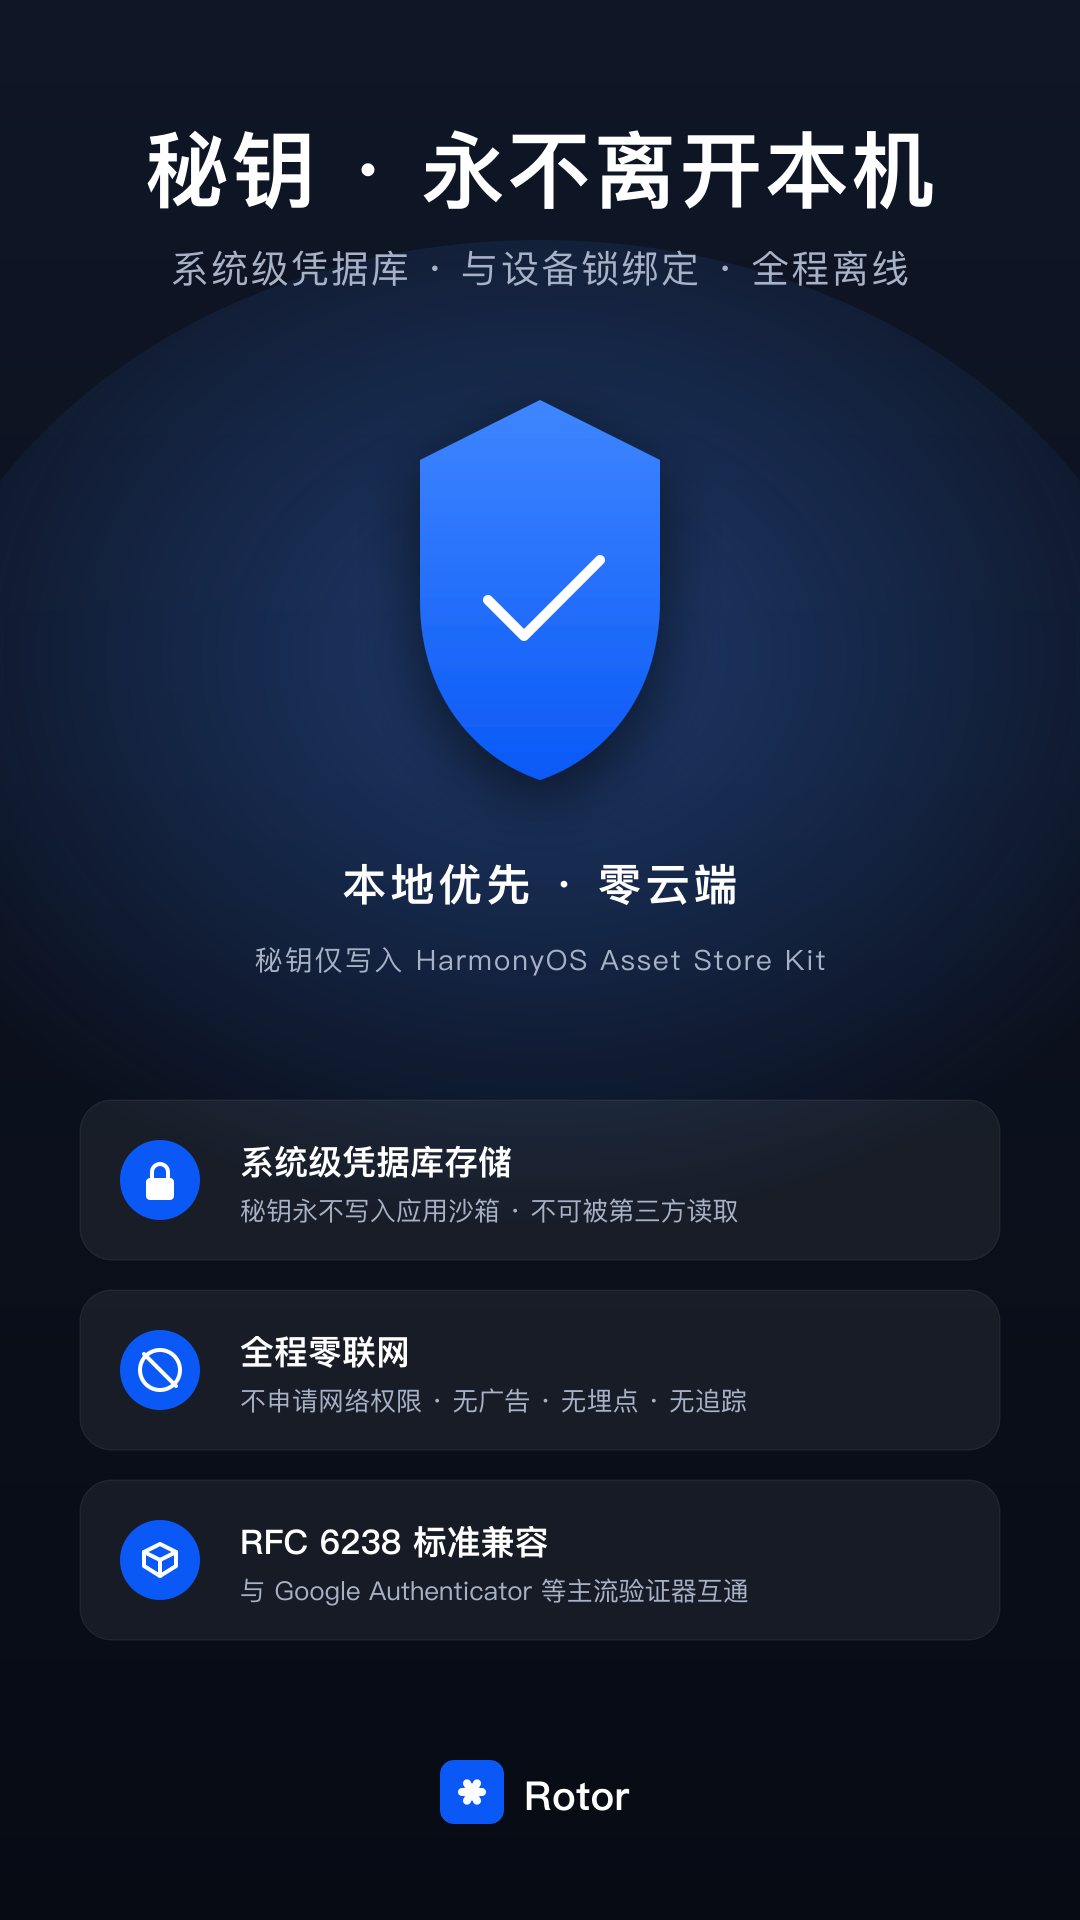
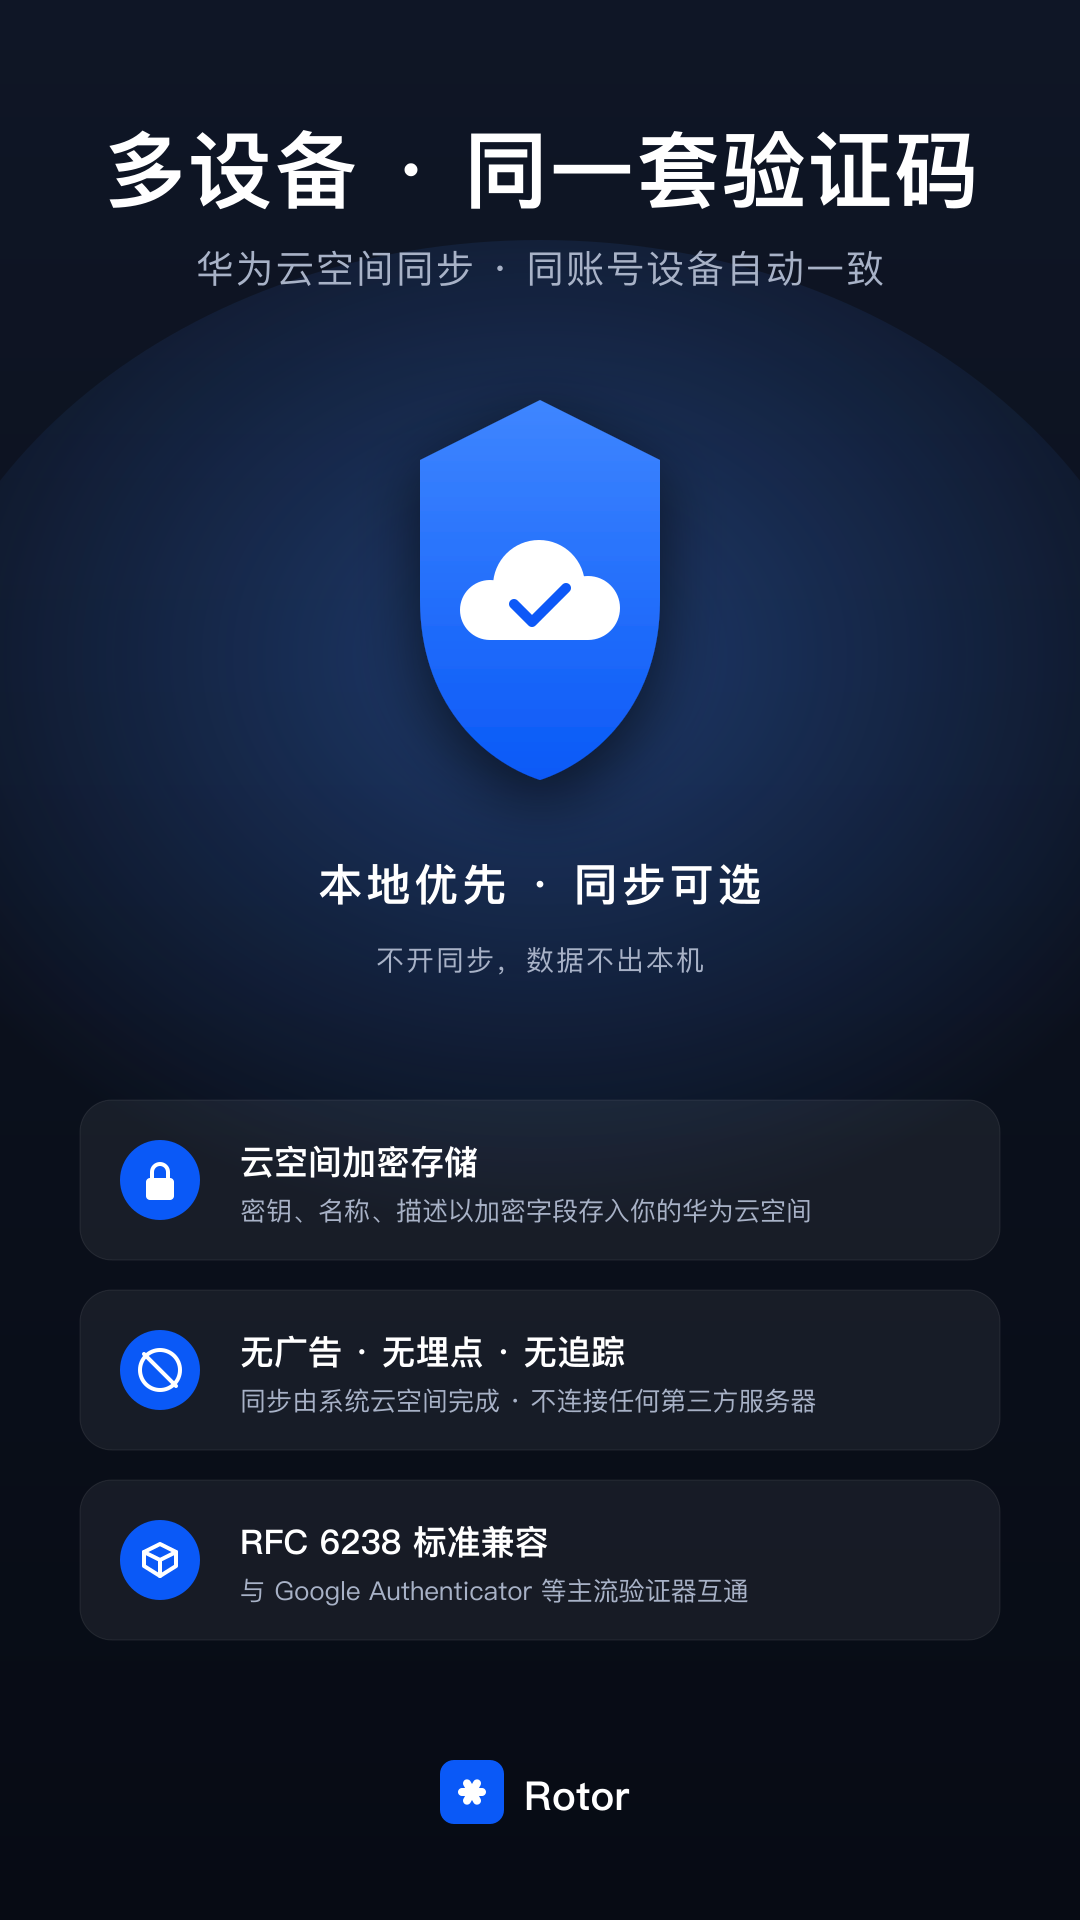
docs: 关于页、README、AGENTS.md 与宣传图按云同步现状更新

diff --git a/docs/superpowers/specs/2026-09-24-cloud-sync-design.md b/docs/superpowers/specs/2026-09-24-cloud-sync-design.md
@@ -77,7 +77,7 @@ const CONFIG: relationalStore.StoreConfig = {
 };
 ```
 
-- `securityLevel` 从 S2 提到 S3。官方规定安全等级只能升不能降；S3 允许端云同步，S4 不允许。
+- `securityLevel` 从 S2 提到 S3。官方规定安全等级只能升不能降；S3 允许端云同步，S4 不允许。现网 S2 库直接以 S3 配置开库即完成升级，不报 14800017。
 - `encrypt` 不设置，保持非加密库（D4）。
 - `autoCleanDirtyData` 不设置，保持默认 true：云端删除的行同步到本机时自动删除。
 
@@ -124,6 +124,8 @@ const CONFIG: relationalStore.StoreConfig = {
 
 `entry/src/main/module.json5` 的 `requestPermissions` 增加 `ohos.permission.GET_NETWORK_INFO`（系统自动授予的普通权限，只需 `name`，供 5.6 网络监听使用）。
 
+`setDistributedTables` 的接口注解标有 `ohos.permission.DISTRIBUTED_DATASYNC`，编译时会出权限提示；端云类型（`DISTRIBUTED_CLOUD`）在 API 12 起运行时不需要该权限，不声明。
+
 ### 5.2 AGC 云侧配置
 
 一次性手工操作，开发环境与生产环境各做一次（先开发环境调通，再「实施变更到生产环境」，实施后字段只能加不能改删）：
@@ -159,9 +161,12 @@ export enum CloudSyncState { OFF, SYNCING, SYNCED, DISCONNECTED }
 
 export interface CloudSyncStatus {
   state: CloudSyncState;
-  code: number;        // 最近一次同步结束时的 ProgressCode，未同步过或调用抛异常为 -1
+  code: number;        // 最近一次同步结束时的 ProgressCode；本进程尚未完成首次同步为 CODE_PENDING（-2），调用抛异常或超时为 CODE_FAILED（-1）
+  online: boolean;     // 默认网络是否可用
   lastSyncAt: number;  // 最近一次成功同步的时间戳，0 表示从未成功
 }
+
+export function syncStateSymbol(state: CloudSyncState): Resource;   // 状态对应的 sys.symbol 图标
 
 class CloudSyncService {
   init(ctx): Promise<void>;                      // 冷启动调用
@@ -172,12 +177,14 @@ class CloudSyncService {
   status(): CloudSyncStatus;
   onStatusChange(cb: (s: CloudSyncStatus) => void): () => void;   // 返回取消函数
   onCloudDataChange(cb: () => void): () => void;                  // 返回取消函数
+  guideShown(ctx): Promise<boolean>;             // 首次开启引导弹窗是否已出现过
+  markGuideShown(ctx): Promise<void>;
   release(): void;                               // 进程退出时调用：取消订阅、注销网络监听
 }
 ```
 
-- `init`：读 preferences；开关为开时，调 `setDistributedTables(['otp_account'], DISTRIBUTED_CLOUD, { autoSync: true })`（幂等，保证配置存在）、注册云端变更订阅、启动网络监听、调一次 `syncNow(ctx, false)`。开关为关时只读状态，不做其他事。
-- `enable`：调 `setDistributedTables(['otp_account'], DISTRIBUTED_CLOUD, { autoSync: true })`，成功后记开关为开，注册云端变更订阅，启动网络监听，调 `syncNow(ctx, true)`。`setDistributedTables` 失败则保持关闭状态并向调用方抛出，页面据此提示「开启失败」。首次 `setDistributedTables` 后系统自动把本地已有行全部上传；手动同步用时间优先模式合并云端已有数据（另一台设备先开启的情况）。
+- `init`：读 preferences；开关为开时，调 `setDistributedTables(['otp_account'], DISTRIBUTED_CLOUD, { autoSync: true })`（幂等，保证配置存在）、注册云端变更订阅、启动网络监听、调一次 `syncNow(ctx, false)`。开关为关且 preferences 里明确记过关闭时，重新下发一次 `{ autoSync: false, enableCloud: false }`，保证关闭状态在系统侧生效；从未开启过则不做其他事。
+- `enable`：调 `setDistributedTables(['otp_account'], DISTRIBUTED_CLOUD, { autoSync: true, enableCloud: true })`，成功后记开关为开，注册云端变更订阅，启动网络监听，调 `syncNow(ctx, true)`。`setDistributedTables` 失败则保持关闭状态并向调用方抛出，页面据此提示「开启失败」。首次 `setDistributedTables` 后系统自动把本地已有行全部上传；手动同步用时间优先模式合并云端已有数据（另一台设备先开启的情况）。
 - `disable`：调 `setDistributedTables(['otp_account'], DISTRIBUTED_CLOUD, { autoSync: false, enableCloud: false })`，记开关为关，取消云端变更订阅，停止网络监听，状态置 `OFF`。调用失败则保持开启状态并向调用方抛出，页面据此提示「关闭失败」。本地数据不动，云端数据保留；删除云端数据由用户在系统云空间的「停止同步并删除云端数据」完成。
 - `syncNow`：`store.cloudSync(SyncMode.SYNC_MODE_TIME_FIRST, ['otp_account'], progress)`（Promise 版）。`manual` 为 false 且距上次实际执行不足 30 秒直接返回，避免被云端限流，防抖计时只保存在内存里，进程启动后的第一次调用总会执行；`manual` 为 true 不受防抖限制，但同步进行中再次调用直接返回。进度回调里 `schedule` 为 `SYNC_FINISH` 时取 `code`，`SUCCESS` 则更新 `lastSyncAt` 并写入 preferences。
 - 所有 relationalStore 与 preferences 调用都包 try/catch，异常记 `console.error` 并把状态置为 `DISCONNECTED`、`code = -1`。
@@ -188,7 +195,7 @@ class CloudSyncService {
 | 状态 | 条件 |
 | --- | --- |
 | `OFF` | 开关为关 |
-| `SYNCING` | 有一次 `cloudSync` 调用在进行中 |
+| `SYNCING` | 有一次 `cloudSync` 调用在进行中，或本进程尚未完成首次同步且网络可用（冷启动与刚开启时总会立即同步一次） |
 | `SYNCED` | 网络可用，且最近一次 `cloudSync` 结束码为 `SUCCESS` |
 | `DISCONNECTED` | 开关为开且不满足上面两条：网络不可用，或最近一次结束码不是 `SUCCESS`，或调用抛异常 |
 
@@ -346,6 +353,7 @@ class CloudSyncService {
 | 位置 | 新文案 |
 | --- | --- |
 | 大标题 | 多设备 · 同一套验证码 |
+| 盾牌内图形 | 白色云朵加蓝色对勾 |
 | 副标题 | 华为云空间同步 · 同账号设备自动一致 |
 | 中部标题 | 本地优先 · 同步可选 |
 | 中部说明 | 不开同步，数据不出本机 |

diff --git a/AGENTS.md b/AGENTS.md
@@ -8,13 +8,22 @@
 - 视觉与交互按 HarmonyOS 官方 UI Design Kit（HDS 组件）与沉浸光感规范实现，不参考外部设计稿
 - 颜色、字号、圆角、间距一律用系统资源 `$r('sys.color.*')`、`$r('sys.float.*')`，不自定义颜色 token，深浅色由系统资源自动适配
 - 界面图标用 `SymbolGlyph($r('sys.symbol.*'))`；issuer 品牌图标为 `media` 下的 PNG，未命中时用 `IssuerAvatar` 首字母头像
-- 页面结构：`Index` 为 `HdsNavigation` 根，二级页为 `HdsNavDestination`，通过 `NavPathStack` 路由；首页标题栏只放大标题，操作全部收在 `HdsTabs` 悬浮栏（智感握姿跟手）一个胶囊里：「搜索」「添加」「更多」。点「搜索」时悬浮栏 `applyHideAnimation` 收起，底部原位以弹簧过渡（`curves.interpolatingSpring(0, 1, 200, 17)` 进、`170, 17` 出）弹出同形态的白色胶囊搜索框加「取消」，取消后 `applyShowAnimation` 恢复；不用 HdsTabs 迷你栏（它天生是挂在页签栏旁边的独立小圆，做不成一体）
+- 页面结构：`Index` 为 `HdsNavigation` 根，二级页为 `HdsNavDestination`，通过 `NavPathStack` 路由；首页标题栏放大标题，右上角只放一个云同步状态图标（`titleBar.content.menu`，未开启云同步时为空，点击进入云同步页），其余操作全部收在 `HdsTabs` 悬浮栏（智感握姿跟手）一个胶囊里：「搜索」「添加」「更多」。点「搜索」时悬浮栏 `applyHideAnimation` 收起，底部原位以弹簧过渡（`curves.interpolatingSpring(0, 1, 200, 17)` 进、`170, 17` 出）弹出同形态的白色胶囊搜索框加「取消」，取消后 `applyShowAnimation` 恢复；不用 HdsTabs 迷你栏（它天生是挂在页签栏旁边的独立小圆，做不成一体）
 - 多选编辑页底部操作栏同样用 `HdsTabs` 悬浮胶囊（删除、导出、全选），不用 `toolbarConfiguration` 与 `ToolBar`；页签构建器里的置灰状态直接读 `this.selectedCount()`，@Builder 按值传入的参数没有响应性
 - 首页列表项用原生 `ListItem` 加 `swipeAction`（自绘 HDS 样式圆形按钮），不用 `HdsListItem`，否则 `ForEach.onMove` 长按拖拽排序失效
 - 首页 `UIContext.setKeyboardAvoidMode(RESIZE)`，键盘弹出时页面压缩而非上移，悬浮栏随之贴在键盘上方
 - 二级页返回首页的刷新统一走 `NavPathStack.setInterception.didShow`，不要依赖 `pushPathByName` 的 `onPop`（`pop(true)` 会匹配 `pop(animated)` 重载，不触发回调）
 - 弹窗一律用系统能力：`AlertDialog`、`bindMenu`、`bindSheet`、`Select`、`showToast`，不自绘弹窗
 - 沉浸光感：`module.json5` 已开应用级开关；弹出层再显式传 `systemMaterial`（菜单与 Toast 用 `ImmersiveStyle.THICK`，弹窗与半模态用 `ULTRA_THICK`）；所有 HDS 标题栏统一 `scrollEffectOpts` 为 `GRADIENT_BLUR` 加 `systemMaterialEffect` ADAPTIVE；`Select` 不要设 `backgroundColor`，否则默认材质失效
+
+## 云同步
+- 通道为 ArkData relationalStore 端云同步（华为云空间）：AGC 容器 `rotor` 对应 `rotor.db`，数据类型 `otp_account` 对应同名表，字段与本地列一一对应，`id` 为端侧去重主键，`secret`、`name`、`note` 为 Encrypted String
+- `otp_account` 是端云同步表：列不带 `NOT NULL`，只能新增不能修改删除；表结构变更写在 `OtpAccountStore` 基于 `RdbStore.version` 的迁移里，库安全等级 S3（S4 不能端云同步）
+- 密钥存 `otp_account.secret` 列，账号的增删改只写这一张表
+- 开关、手动同步、云端变更订阅、网络监听与状态计算都在 `CloudSyncService`；页面只订阅 `onStatusChange` 与 `onCloudDataChange`，开关状态与最近同步时间存 preferences `rotor_settings`
+- 状态三态：已同步、同步中、与云断开；最近一次同步结束码不是 `SUCCESS` 或默认网络断开都算与云断开，具体原因在云同步页显示
+- `setDistributedTables` 的 `DISTRIBUTED_DATASYNC` 权限 lint 提示可忽略，端云类型运行时不需要该权限
+- 调试包（`product=device`）连 AGC 开发环境，发布包连生产环境；同步需两台登录同一华为账号的真机验证，模拟器没有云空间，同步结束码固定为 `CLOUD_DISABLED`，跳转云空间的深链打不开
 
 ## 调试流程
 - 命令行编译前先设置环境。hvigor 取 PATH 里的 `java`，必须指向 DevEco 自带的 JBR：
@@ -38,7 +47,6 @@
 ## ArkTS 注意
 - 系统 API（router / promptAction / getContext）已弃用，统一通过 `this.getUIContext().getRouter() / .getPromptAction() / .getHostContext()` 调用
 - HMAC：`cryptoFramework.createMac(algo)`（'SHA1' 不带 HMAC 前缀），`cryptoFramework.createSymKeyGenerator('HMAC')`
-- Asset Kit：`Map<asset.Tag, asset.Value>` 用 `asset.AssetMap = new Map()`，value 直接传 `Uint8Array`，不要 `.buffer as object`
 - 全屏窗口：EntryAbility.onWindowStageCreate 中 `setWindowLayoutFullScreen(true)`，页面根 `HdsNavigation` / `HdsNavDestination` 加 `.ignoreLayoutSafeArea([LayoutSafeAreaType.SYSTEM], [LayoutSafeAreaEdge.TOP, LayoutSafeAreaEdge.BOTTOM])`，标题栏配置 `enableComponentSafeArea: true` 让内容避让
 - ArkTS 严格模式："Function may throw exceptions" warning 必须用 try/catch 清掉；rethrow 不能直接 `throw e`，要 `throw new Error(String(e))`
 - 自定义组件的属性名不能与通用属性同名（如 `size`、`width`），否则报 not assignable
@@ -49,5 +57,8 @@
 - `pages/EditPage.ets`：添加与编辑（含高级选项）
 - `pages/ManagePage.ets`：多选编辑（批量删除、加密导出）
 - `pages/AboutPage.ets`：关于
+- `pages/SyncPage.ets`：云同步（状态、开关、立即同步、跳转系统云空间）
+- `services/OtpAccountStore.ets`：账号表、结构版本迁移
+- `services/CloudSyncService.ets`：端云同步、网络监听、同步状态
 - `services/ScanService.ets`：扫码与 Google Authenticator 迁移导入
 - `components/OtpCard.ets`、`IssuerAvatar.ets`、`ProgressRing.ets`、`PasswordSheet.ets`
